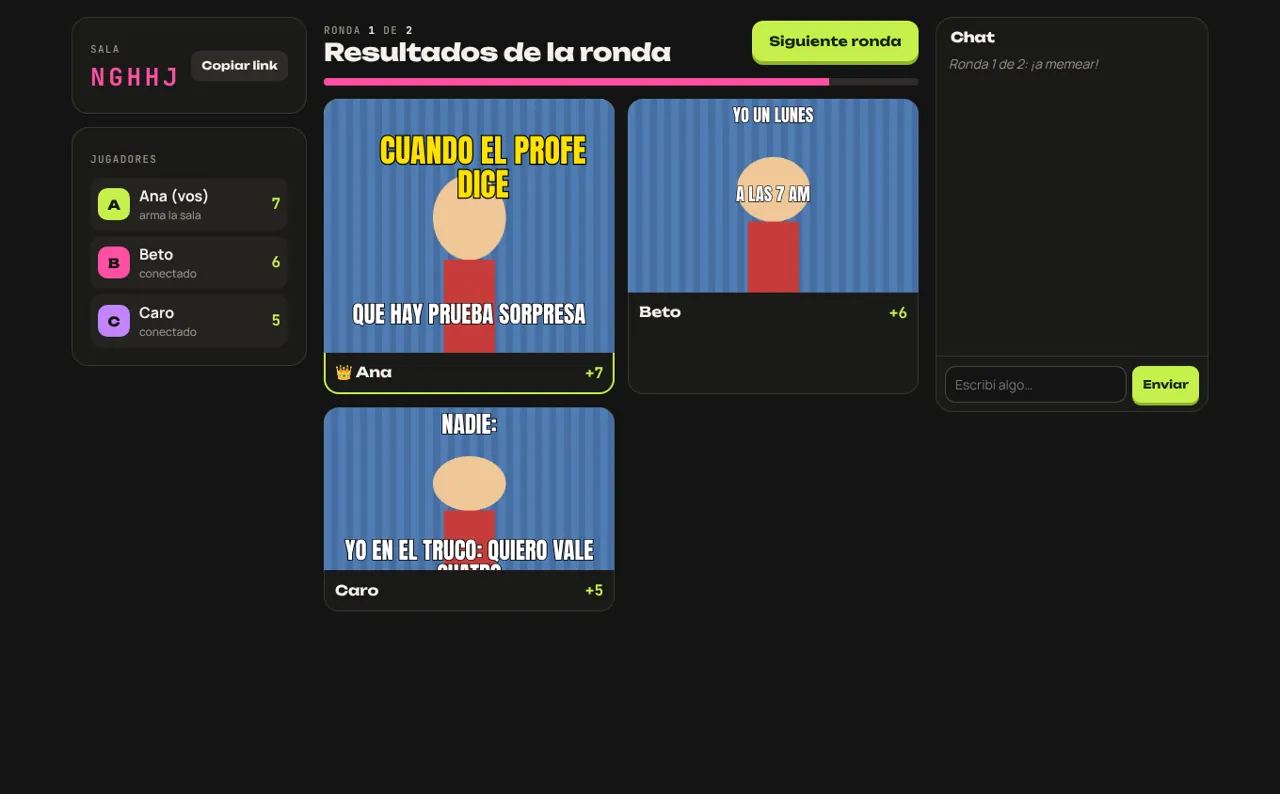
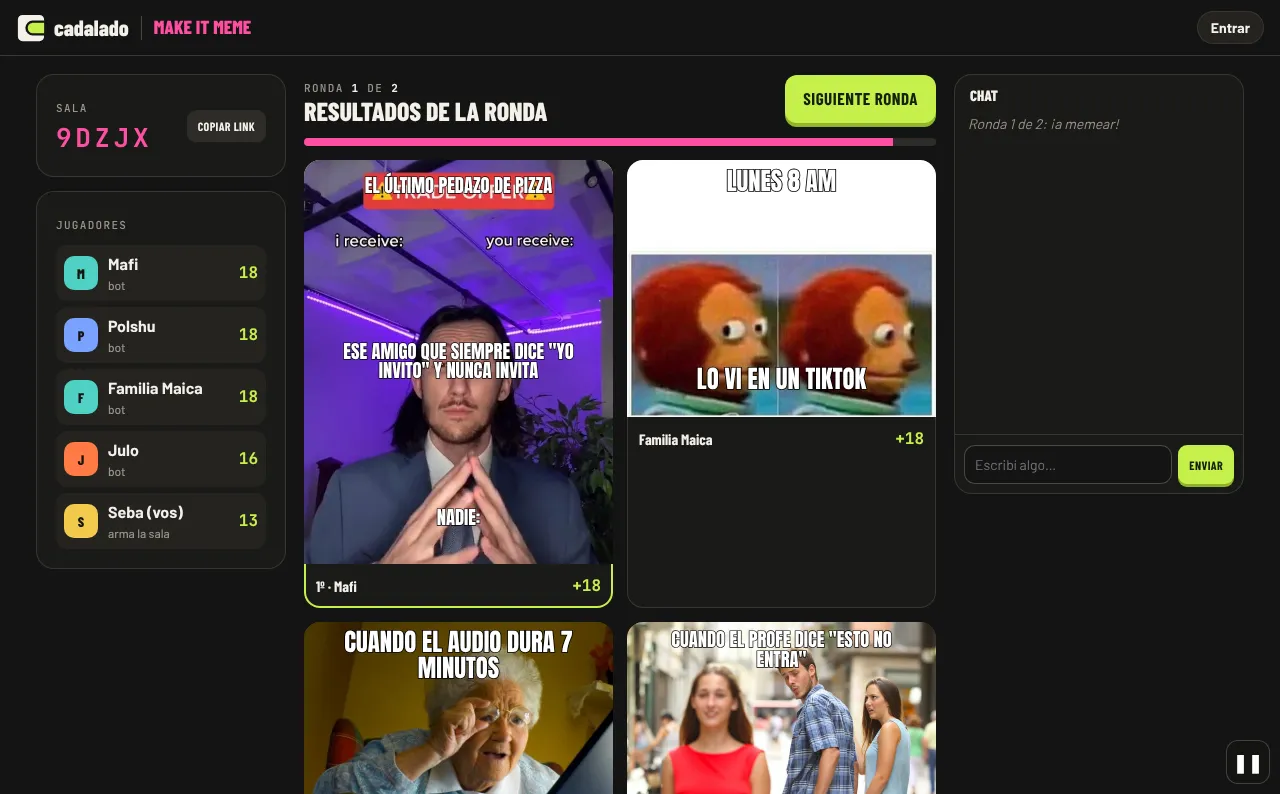
Make it Meme: bots that caption real templates; fresh portal previews
Bots (up to 4, named after the group) caption the real imgflip templates
with short absurd lines from a large bank that does not repeat within a
room, send their meme a while into the round like a person would, and vote.
A single person can now play with bots. Portal previews for Make it Meme
and Fall Pibes show the real games.

Claude-Session: https://claude.ai/code/session_01GR3Q3hi2WhZwo1w7uuPhJy

diff --git a/games/memes/lib/memes.js b/games/memes/lib/memes.js
@@ -3,6 +3,7 @@
 import { PLANTILLAS } from '../public/js/plantillas.js';
 import { crearJuego, idPublico, mezclar, entero } from '../../../shared/salas.js';
 import { registrarPartida } from '../../../shared/cuenta.js';
+import { textosBot, nombresBots, votoBot, MAX_BOTS } from './bots.js';
 
 const POR_ID = new Map(PLANTILLAS.map((p) => [p.id, p]));
 const VOTO_MS = 13_000; // cada meme se vota durante este tiempo
@@ -34,6 +35,12 @@ function limpiarTextos(lista) {
   }));
 }
 const tieneTexto = (m) => m?.textos?.some((t) => t.t.trim());
+const esBot = (pid) => typeof pid === 'string' && pid.startsWith('bot-');
+const nombreDe = (r, pid) => (esBot(pid) ? (r.botsSala || []).find((b) => b.pid === pid)?.nombre : r.jugadores[pid]?.nombre) || '—';
+function armarBots(r, n) {
+  const nombres = nombresBots(n);
+  r.botsSala = nombres.map((nombre, i) => ({ pid: `bot-${i}-${nombre.toLowerCase().replace(/[^a-z]/g, '')}`, nombre }));
+}
 
 function empezarRonda(r, ctx) {
   r.ronda += 1;
@@ -43,7 +50,16 @@ function empezarRonda(r, ctx) {
   r.asignadas = {};
   r.cambios = {};
   r.participantes = Object.keys(r.jugadores);
+  r.listoBot = {};
+  r.botsSala ||= [];
+  r.frasesBot ||= [];
+  for (const b of r.botsSala) r.participantes.push(b.pid);
   for (const pid of r.participantes) r.asignadas[pid] = nuevaPlantilla(r);
+  // los bots tienen su meme enseguida, pero "lo mandan" un rato después (como una persona)
+  for (const b of r.botsSala) {
+    r.memes[b.pid] = { plantilla: r.asignadas[b.pid], textos: textosBot(POR_ID.get(r.asignadas[b.pid])?.cajas, r.frasesBot) };
+    r.listoBot[b.pid] = ctx.now + (0.2 + Math.random() * 0.45) * r.segCrear * 1000;
+  }
   ctx.sistema(`Ronda ${r.ronda} de ${r.rondas}: ¡a memear!`);
 }
 
@@ -54,6 +70,11 @@ function empezarVotacion(r, ctx) {
   if (!r.orden.length) return mostrarResultados(r, ctx);
   r.fase = 'votando';
   r.fin = ctx.now + VOTO_MS;
+  votanBots(r);
+}
+function votanBots(r) {
+  const autor = r.orden[r.idx];
+  for (const b of r.botsSala || []) if (b.pid !== autor) (r.votos[autor] ||= {})[b.pid] = votoBot();
 }
 
 function puntosDe(r, autor) {
@@ -70,22 +91,30 @@ function mostrarResultados(r, ctx) {
   r.fin = r.fase === 'final' ? 0 : ctx.now + RESULTADOS_MS;
   if (r.fase === 'final') {
     const top = Object.entries(r.puntos).sort((a, b) => b[1] - a[1])[0];
-    if (top) ctx.sistema(`¡Ganó ${r.jugadores[top[0]]?.nombre || 'alguien'} con ${top[1]} puntos!`);
+    if (top) ctx.sistema(`¡Ganó ${nombreDe(r, top[0])} con ${top[1]} puntos!`);
   }
 }
 
 function avanzarVoto(r, ctx) {
   r.idx += 1;
   if (r.idx >= r.orden.length) mostrarResultados(r, ctx);
-  else r.fin = ctx.now + VOTO_MS;
+  else {
+    r.fin = ctx.now + VOTO_MS;
+    votanBots(r);
+  }
 }
 
-const votantes = (r, autor, online) => r.participantes.filter((p) => p !== autor && r.jugadores[p] && (!online || online.has(p)));
+// quiénes votan: los bots ya votaron solos; online filtra a las personas conectadas
+const votantes = (r, autor, online) => r.participantes.filter((p) => p !== autor && (esBot(p) ? !online : r.jugadores[p] && (!online || online.has(p))));
 
 export const memes = crearJuego({
   id: 'memes',
   nueva(opts) {
-    return {
+    const nb = Number(opts.bots);
+    const r = {
+      botsSala: [],
+      frasesBot: [],
+      listoBot: {},
       fase: 'lobby',
       rondas: [2, 3, 4, 5].includes(Number(opts.rondas)) ? Number(opts.rondas) : 3,
       segCrear: [60, 90, 120].includes(Number(opts.segundos)) ? Number(opts.segundos) : 90,
@@ -103,6 +132,8 @@ export const memes = crearJuego({
       resultados: [],
       mejor: null,
     };
+    armarBots(r, Number.isInteger(nb) && nb >= 0 && nb <= MAX_BOTS ? nb : 0);
+    return r;
   },
   unirse(r, j, ctx) {
     // si entra en medio de una ronda con tiempo, juega esta ronda
@@ -118,7 +149,7 @@ export const memes = crearJuego({
         if (!ctx.esHost) return { error: 'Solo quien creó la sala puede empezar' };
         if (!['lobby', 'final'].includes(r.fase)) return {};
         const conectados = Object.keys(r.jugadores).filter((p) => ctx.online.has(p) || p === pid);
-        if (conectados.length < 2) return { error: 'Hacen falta al menos 2 jugadores. ¡Mandá el link!' };
+        if (conectados.length + (r.botsSala || []).length < 2) return { error: 'Hacen falta al menos 2 jugadores. ¡Mandá el link o sumá bots!' };
         // los que se fueron no siguen en la tabla
         for (const p of Object.keys(r.jugadores)) if (!conectados.includes(p)) delete r.jugadores[p];
         r.ronda = 0;
@@ -156,6 +187,11 @@ export const memes = crearJuego({
         if (!faltan.length) r.fin = Math.min(r.fin, ctx.now + 1800);
         return {};
       }
+      case 'bots': {
+        const n = Number(msg.n);
+        if (ctx.esHost && ['lobby', 'final'].includes(r.fase) && Number.isInteger(n) && n >= 0 && n <= MAX_BOTS) armarBots(r, n);
+        return {};
+      }
       case 'siguiente':
         if (ctx.esHost && r.fase === 'resultados') r.fin = ctx.now;
         return {};
@@ -181,7 +217,8 @@ export const memes = crearJuego({
       fin: r.fin,
       puntos: Object.fromEntries(Object.entries(r.puntos).map(([p, n]) => [id(p), n])),
       participantes: r.participantes.map(id),
-      listos: Object.keys(r.memes).map(id),
+      listos: Object.keys(r.memes).filter((p) => !esBot(p) || (r.listoBot?.[p] || 0) <= ctx.now).map(id),
+      bots: (r.botsSala || []).map((b) => ({ id: id(b.pid), nombre: b.nombre })),
     };
     if (r.fase === 'creando' && r.participantes.includes(pid)) {
       v.miPlantilla = r.asignadas[pid];
@@ -203,9 +240,9 @@ export const memes = crearJuego({
       };
     }
     if (r.fase === 'resultados' || r.fase === 'final') {
-      v.resultados = r.resultados.map((m) => ({ ...m, autor: id(m.autor), nombre: r.jugadores[m.autor]?.nombre || '—' }));
+      v.resultados = r.resultados.map((m) => ({ ...m, autor: id(m.autor), nombre: nombreDe(r, m.autor) }));
     }
-    if (r.fase === 'final' && r.mejor) v.mejor = { ...r.mejor, autor: id(r.mejor.autor), nombre: r.jugadores[r.mejor.autor]?.nombre || '—' };
+    if (r.fase === 'final' && r.mejor) v.mejor = { ...r.mejor, autor: id(r.mejor.autor), nombre: nombreDe(r, r.mejor.autor) };
     return v;
   },
   lobby(r) {
@@ -228,7 +265,7 @@ export const memes = crearJuego({
         resultado: pts === max ? (ganadores > 1 ? 'tablas' : 'victoria') : 'derrota',
         detalle: `${r.rondas} rondas`,
         marcador: `${pts} pts · ${tabla.findIndex(([p]) => p === pid) + 1}º de ${tabla.length}`,
-        rivales: tabla.filter(([p]) => p !== pid).map(([p]) => r.jugadores[p]?.nombre).filter(Boolean),
+        rivales: tabla.filter(([p]) => p !== pid).map(([p]) => nombreDe(r, p)),
       });
     }
   },

diff --git a/games/memes/public/js/app.js b/games/memes/public/js/app.js
@@ -63,7 +63,8 @@ function menu() {
       <h2>Armar una sala</h2>
       <form data-crear style="display:grid;gap:12px">
         ${cuenta ? '' : `<label><span class="etq">Tu nombre</span><input class="entrada" name="nombre" maxlength="20" required value="${esc(nombreGuardado())}" placeholder="¿Cómo te llaman?"></label>`}
-        <div style="display:grid;grid-template-columns:1fr 1fr;gap:10px">
+        <div style="display:grid;grid-template-columns:1fr 1fr 1fr;gap:10px">
+          <label><span class="etq">Bots</span><select class="entrada" name="bots"><option>0</option><option selected>2</option><option>3</option><option>4</option></select></label>
           <label><span class="etq">Rondas</span><select class="entrada" name="rondas"><option>2</option><option selected>3</option><option>4</option><option>5</option></select></label>
           <label><span class="etq">Tiempo para crear</span><select class="entrada" name="segundos"><option value="60">60 s</option><option value="90" selected>90 s</option><option value="120">120 s</option></select></label>
         </div>
@@ -84,7 +85,7 @@ function menu() {
     if (!cuenta) guardarNombre(f.get('nombre'));
     e.target.querySelector('button').disabled = true;
     try {
-      const { code } = await api('/api/memes/crear', { pid: pid(), nombre: f.get('nombre'), opciones: { rondas: f.get('rondas'), segundos: f.get('segundos'), publica: f.get('publica') === 'on' } });
+      const { code } = await api('/api/memes/crear', { pid: pid(), nombre: f.get('nombre'), opciones: { bots: Number(f.get('bots')), rondas: f.get('rondas'), segundos: f.get('segundos'), publica: f.get('publica') === 'on' } });
       ir(`/memes/sala/${code}`);
     } catch (err) {
       toast(err.message, true);
@@ -159,6 +160,8 @@ function abrirSala(code) {
     intervalo: (e) => (e?.fase === 'votando' ? 700 : e?.fase === 'lobby' ? 1500 : 1000),
     onEstado: (e) => {
       est = e;
+      // los bots aparecen como jugadores más (siempre conectados)
+      est.jugadores = [...e.jugadores, ...(e.bots || []).map((b) => ({ ...b, online: true, bot: true }))];
       pintarJugadores();
       pintarFase();
     },
@@ -205,7 +208,7 @@ function abrirSala(code) {
     const lista = [...est.jugadores].sort((a, b) => (est.puntos[b.id] || 0) - (est.puntos[a.id] || 0));
     $('[data-jugadores]').innerHTML = lista.map((j) => {
       const listo = est.fase === 'creando' && est.listos.includes(j.id);
-      const sub = j.id === est.host ? 'arma la sala' : est.fase === 'creando' ? (listo ? 'meme listo' : est.participantes.includes(j.id) ? 'creando…' : 'entra en la próxima') : j.online ? 'conectado' : 'desconectado';
+      const sub = j.bot && est.fase !== 'creando' ? 'bot' : j.id === est.host ? 'arma la sala' : est.fase === 'creando' ? (listo ? 'meme listo' : est.participantes.includes(j.id) ? 'creando…' : 'entra en la próxima') : j.online ? 'conectado' : 'desconectado';
       return `<div class="jug ${j.online ? '' : 'off'}"><span class="avatar" style="--av:${colorDe(j.id)}">${esc(j.nombre[0]?.toUpperCase() || '?')}</span>
         <span class="n">${esc(j.nombre)}${j.id === est.yo ? ' (vos)' : ''}<small>${sub}</small></span>
         ${listo ? '<span class="ok">✓</span>' : ''}<span class="pts">${est.puntos[j.id] || 0}</span></div>`;
@@ -231,6 +234,7 @@ function abrirSala(code) {
         <h2>¿Quiénes juegan?</h2>
         <p>Mandá el link de la sala. Cuando estén todos, ${esHost ? 'tocá empezar' : 'el que armó la sala empieza'}.</p>
         <div class="fila-form" style="max-width:520px;margin:0 auto"><input class="entrada mono" readonly value="${esc(link)}"><button class="btn" data-copiar2>Copiar</button></div>
+        ${esHost ? `<div class="fila-bots"><span class="etq">Bots que memean</span>${[0, 1, 2, 3, 4].map((k) => `<button class="btn btn-chico ${k === (est.bots || []).length ? 'btn-lima' : ''}" data-bots="${k}">${k}</button>`).join('')}</div>` : ''}
         <div style="margin-top:18px">${esHost ? `<button class="btn btn-lima btn-grande" data-empezar ${n < 2 ? 'disabled' : ''}>Empezar (${n} ${n === 1 ? 'jugador' : 'jugadores'})</button>` : `<span class="chip">${n} conectados · esperando que empiece</span>`}</div>
         <div class="reglas">
           <div><b>1 · Plantilla</b>Te toca una al azar. Si no te convence, pedí otra.</div>
@@ -239,6 +243,7 @@ function abrirSala(code) {
         </div></div>`;
       c.querySelector('[data-copiar2]').onclick = () => app.querySelector('[data-copiar]').click();
       c.querySelector('[data-empezar]')?.addEventListener('click', () => sala.enviar({ t: 'empezar' }));
+      c.querySelectorAll('[data-bots]').forEach((b) => (b.onclick = () => sala.enviar({ t: 'bots', n: Number(b.dataset.bots) })));
       return;
     }
 

diff --git a/games/memes/lib/bots.js b/games/memes/lib/bots.js
@@ -1,0 +1,117 @@
+// Bots de Make it Meme: completan las plantillas con frases cortas y absurdas.
+// Hay muchas frases y en una sala no se repite ninguna hasta agotar la lista,
+// así no se queman los chistes.
+import { mezclar, entero } from '../../../shared/salas.js';
+
+export const NOMBRES_BOT = ['Lior', 'Polshu', 'Familia Maica', 'Guivi', 'Glinsky', 'Milton Giménez', 'Julo', 'Maica', 'Mafi', 'Simja Tora', 'Faur', 'Dobro', 'Herma'];
+export const MAX_BOTS = 4;
+
+// Arriba / abajo: se combinan al azar, así salen memes distintos cada vez.
+const ARRIBA = [
+  'Yo a las 3 AM',
+  'Cuando decís "una más y me voy"',
+  'Mi plan para el finde',
+  'El grupo de WhatsApp de la familia',
+  'Cuando el profe dice "esto no entra"',
+  'Yo explicándole a mi vieja qué es la nube',
+  'Lunes 8 AM',
+  'Cuando llega la boleta de la luz',
+  'Mi heladera a fin de mes',
+  'Yo después de un mate lavado',
+  'El colectivo cuando corrés para alcanzarlo',
+  'Cuando te dicen "tenemos que hablar"',
+  'Mi cerebro en el examen',
+  'Cuando el Wi-Fi anda',
+  'El asado cuando llegás tarde',
+  'Cuando ponés "voy" y estás en la ducha',
+  'Mi presupuesto',
+  'Yo jurando que hoy me acuesto temprano',
+  'La tesina',
+  'El que trae hielo',
+  'Cuando el delivery dice "a dos cuadras"',
+  'Yo leyendo los términos y condiciones',
+  'Mi perro cuando abro un paquete',
+  'Cuando encontrás plata en la campera',
+  'El último pedazo de pizza',
+  'Yo programando sin dormir',
+  'El aguinaldo',
+  'Cuando el audio dura 7 minutos',
+  'Cuando te mandan "jaja" sin la J mayúscula',
+  'El GPS cuando no hay señal',
+];
+const ABAJO = [
+  'No me arrepiento de nada',
+  'Bueno, era eso',
+  'Todo bien, todo tranqui',
+  'Y sin embargo, acá estamos',
+  'Esto es cine',
+  'Ni idea, pero con confianza',
+  'Error 404: ganas no encontradas',
+  'Lo dejo para mañana',
+  'Fuente: me lo contó un amigo',
+  'Siempre fue así, no sé de qué te sorprendés',
+  'Plan perfecto, cero fallas',
+  'Spoiler: no salió bien',
+  'La previa más larga del mundo',
+  'Confíen en el proceso',
+  'Esto es exponencial',
+  'Lo compilé en la heladera',
+  'Queque',
+  'Me dijeron que era fácil',
+  'Mañana arranco el gimnasio',
+  'Nadie:',
+  'Y no paró de llover',
+  'Tranqui, tengo un primo que sabe',
+  'Lo vi en un TikTok',
+  'Si sale, sale',
+  'Era un martes cualquiera',
+  'Con la mejor onda',
+  'Necesito vacaciones de mis vacaciones',
+  'Igual vamos a ganar',
+  'Jamás le fallé a nadie (mentira)',
+  'Por algo será',
+];
+// Frases que van solas (una sola caja o para todas).
+const SOLAS = [
+  'Cuando la bocha no entra pero la querés igual',
+  'Yo armando el equipo ideal y me toca el arquero',
+  'Ese momento en que el mate se tapa',
+  'Cuando ponés la alarma y te despertás antes',
+  'Cuando te decís "último capítulo" y son las 5',
+  'Cuando el profe toma lo único que no leíste',
+  'Mi cara cuando dicen "es un ratito nomás"',
+  'Cuando la playlist es tuya y nadie la banca',
+  'Yo cuando me ofrecen una porción más',
+  'Cuando el grupo dice "a las 9" y son las 11',
+  'Cuando te dan vuelto de más',
+  'Ese amigo que siempre dice "yo invito" y nunca invita',
+  'Cuando ganás una mano y te sentís experto',
+  'Cuando la paloma te mira raro',
+  'Mi vida en una imagen',
+];
+
+// Arma los textos de un bot para una plantilla con `cajas` lugares.
+export function textosBot(cajas, usadas) {
+  const sacar = (lista, clave) => {
+    const libres = lista.filter((f) => !usadas.includes(`${clave}:${f}`));
+    const pool = libres.length ? libres : lista;
+    if (!libres.length) for (let i = usadas.length - 1; i >= 0; i--) if (usadas[i].startsWith(clave + ':')) usadas.splice(i, 1);
+    const f = pool[entero(pool.length)];
+    usadas.push(`${clave}:${f}`);
+    return f;
+  };
+  const n = Math.max(2, Math.min(4, cajas || 2));
+  const caja = (i, t) => (n === 2 ? { x: 0.05, y: i ? 0.8 : 0.03, w: 0.9, s: 0.08, c: 'blanco', t } : { x: 0.08, y: 0.04 + (i * 0.82) / (n - 1), w: 0.84, s: 0.06, c: 'blanco', t });
+  const r = Math.random();
+  if (r < 0.25) return [caja(1, sacar(SOLAS, 's'))]; // a veces una sola frase abajo
+  if (n === 2 || r < 0.6) return [caja(0, sacar(ARRIBA, 'a')), caja(n - 1, sacar(ABAJO, 'b'))];
+  // varias cajas: arriba, alguna del medio y abajo
+  const medio = 1 + entero(n - 2);
+  return [caja(0, sacar(ARRIBA, 'a')), caja(medio, sacar(SOLAS, 's')), caja(n - 1, sacar(ABAJO, 'b'))];
+}
+
+// Nombres para los bots de una sala (sin repetir).
+export const nombresBots = (n) => mezclar([...NOMBRES_BOT]).slice(0, n);
+
+// Voto de un bot: generoso pero no siempre 5.
+export const votoBot = () => [2, 3, 3, 4, 4, 4, 5, 5][entero(8)];

diff --git a/games/memes/test/memes.test.js b/games/memes/test/memes.test.js
@@ -14,7 +14,7 @@ test('partida de memes completa: crear, votar anónimo, puntos y final', async (
   const { data } = await req('POST', '/crear', { pid: P[0], nombre: 'Ana', opciones: { rondas: 2, publica: true } });
   const code = data.code;
   await accion(code, P[0], { t: 'join', nombre: 'Ana' });
-  assert.equal((await accion(code, P[0], { t: 'empezar' })).data.error, 'Hacen falta al menos 2 jugadores. ¡Mandá el link!');
+  assert.equal((await accion(code, P[0], { t: 'empezar' })).data.error, 'Hacen falta al menos 2 jugadores. ¡Mandá el link o sumá bots!');
   await accion(code, P[1], { t: 'join', nombre: 'Beto' });
   await accion(code, P[2], { t: 'join', nombre: 'Caro' });
   assert.equal((await accion(code, P[1], { t: 'empezar' })).data.error, 'Solo quien creó la sala puede empezar');
@@ -62,4 +62,36 @@ test('partida de memes completa: crear, votar anónimo, puntos y final', async (
   assert.ok(v.estado.mejor);
   const lobby = (await req('GET', '/lobby')).data.salas;
   assert.ok(lobby.some((s) => s.code === code));
+});
+
+test('bots: juegan solos con una persona, votan, no repiten frases y no se votan a sí mismos', async () => {
+  const A = 'pidMemeSolo1';
+  const { code } = (await req('POST', '/crear', { pid: A, nombre: 'Ana', opciones: { rondas: 2, bots: 3 } })).data;
+  await accion(code, A, { t: 'join', nombre: 'Ana' });
+  let v = await ver(code, A);
+  assert.equal(v.estado.bots.length, 3);
+  const nombres = v.estado.bots.map((b) => b.nombre);
+  assert.equal(new Set(nombres).size, 3);
+  await accion(code, A, { t: 'bots', n: 2 });
+  v = (await accion(code, A, { t: 'empezar' })).data.estado;
+  assert.equal(v.fase, 'creando');
+  assert.equal(v.participantes.length, 3);
+  assert.ok(!v.listos.some((id) => v.bots.find((b) => b.id === id)), 'los bots tardan un rato en mandar');
+  await accion(code, A, { t: 'enviar', textos: [{ t: 'mi meme' }] });
+  const textosVistos = [];
+  for (let k = 0; k < 2; k++) {
+    // forzamos el paso del tiempo
+    const { getStore } = await import('../../../shared/store.js');
+    const key = `sala:memes:${code}`;
+    const r = JSON.parse(await getStore().get(key));
+    r.fin = Date.now() - 1;
+    await getStore().set(key, JSON.stringify(r), 3600);
+    v = await ver(code, A);
+    if (v.estado.fase === 'votando') {
+      textosVistos.push(v.estado.voto.textos.map((t) => t.t).join(' / '));
+      if (!v.estado.voto.esMio) assert.ok(v.estado.voto.votaron >= 1, 'el otro bot ya votó');
+    }
+  }
+  assert.ok(textosVistos.length >= 1);
+  assert.equal(new Set(textosVistos).size, textosVistos.length);
 });

diff --git a/games/memes/public/css/memes.css b/games/memes/public/css/memes.css
@@ -101,3 +101,6 @@
   .votos button { width: 58px; padding: 10px 4px 8px; font-size: 12px; }
   .votos button span { font-size: 26px; }
 }
+.fila-bots { display: flex; gap: 6px; align-items: center; justify-content: center; margin-top: 16px; flex-wrap: wrap; }
+.fila-bots .etq { margin-right: 6px; }
+.fila-bots .btn { min-width: 38px; }
